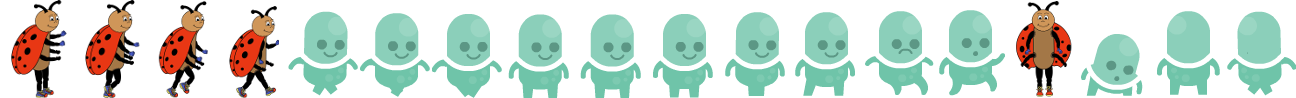
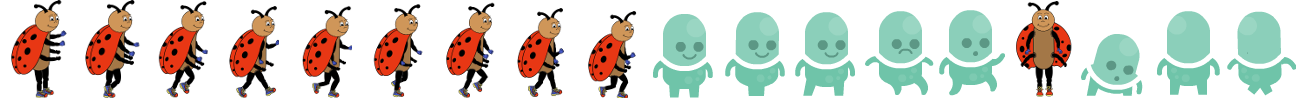
Update walking animation.

Changed region(s): [[0.216, 0.0306, 0.4938, 1.0]]

diff --git a/app/scripts/main.js b/app/scripts/main.js
@@ -11,8 +11,8 @@ Q.load("level1.tmx, level2.tmx, level3.tmx, level4.tmx, level5.tmx, level6.tmx, 
 //      walk_left: { frames:  [0,1,2,3,4,5,6,7,8,9,10], rate: 1/15, flip:"x", loop: true },
 
     Q.animations("player", {
-      walk_right: { frames: [0, 1, 2, 3], rate: 1/10, flip: false, loop: true },
-      walk_left: { frames:  [0, 1, 2, 3], rate: 1/10, flip:"x", loop: true },
+      walk_right: { frames: [0, 1, 2, 3, 4, 5, 6, 7, 8], rate: 1/8, flip: false, loop: true },
+      walk_left: { frames:  [0, 1, 2, 3, 4, 5, 6, 7, 8], rate: 1/8, flip:"x", loop: true },
       jump_right: { frames: [13], rate: 1/10, flip: false },
       jump_left: { frames:  [13], rate: 1/10, flip: "x" },
       stand_right: { frames:[14], rate: 1/10, flip: false },
